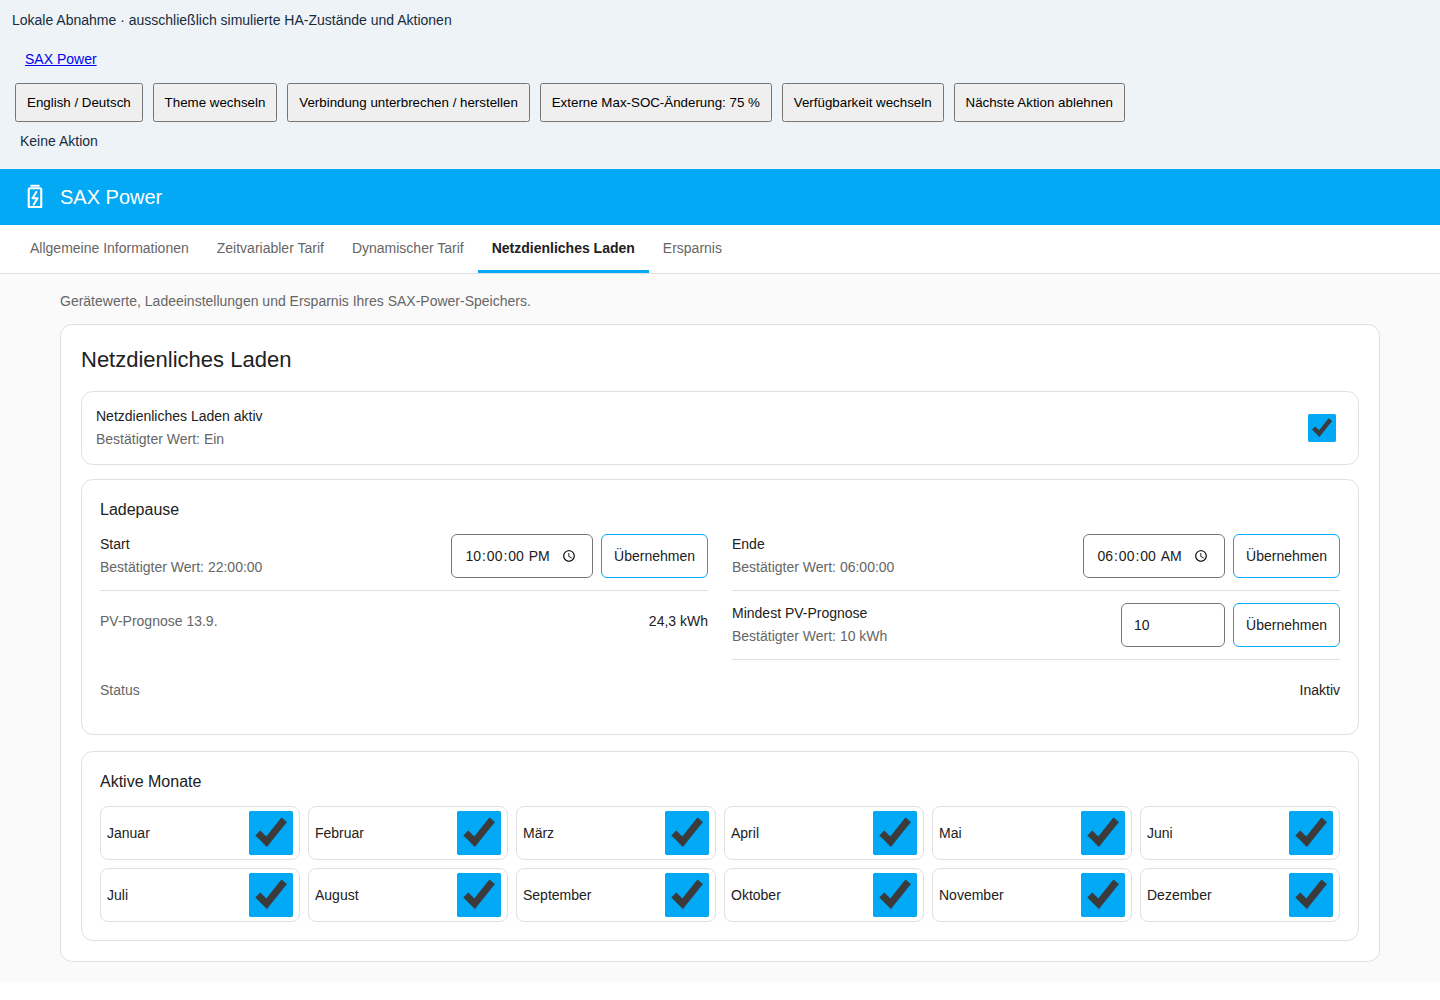
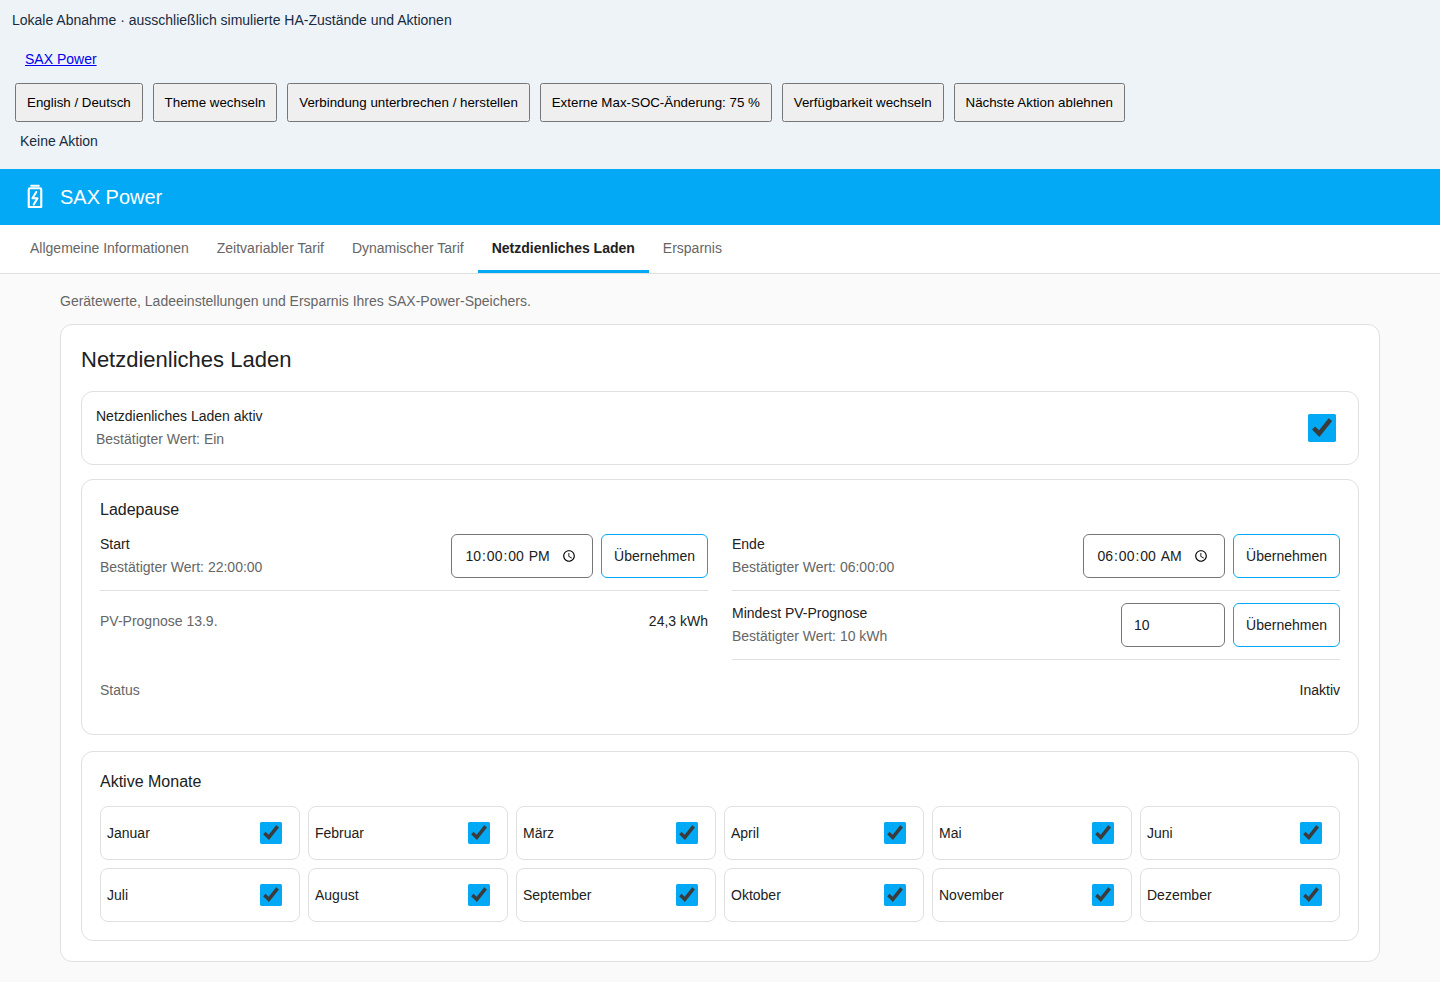
Aktualisiere die Browsernachweise für dezente Monatshaken

diff --git a/docs/vue-dashboard-parity.md b/docs/vue-dashboard-parity.md
@@ -242,14 +242,16 @@ im Produktionsmodul- und Browserlauf geprüft.
 ### Aktuelle Abnahme vom 12.09.2026
 
 Der vollständige
-[CI-Lauf 34687697772](https://github.com/dr-dimitri/sax-ha/actions/runs/34687697772)
+[CI-Lauf 34688788120](https://github.com/dr-dimitri/sax-ha/actions/runs/34688788120)
 prüfte den Code aus
-[Commit 909c2b8920cc](https://github.com/dr-dimitri/sax-ha/commit/909c2b8920ccd1b3edaceca96a2ee8dca27afcb6)
+[Commit f50e9e69ae0d](https://github.com/dr-dimitri/sax-ha/commit/f50e9e69ae0d9310385d48a314c52e911fc90811)
 im zugehörigen PR-Testmerge erfolgreich. Der Browserbericht zeigt:
 **28 von 28 Browserfällen bestanden,
 keine Fehler, keine erst nach Wiederholung bestandenen Fälle und keine Skips**.
 Die Prüfung umfasst das einzige Dashboard **SAX Power**, alle fünf Ansichten,
-die kompakten Monatsraster und das Entfernen des zweiten Dashboard-Einstiegs.
+die kompakten Monatsraster mit kleineren sichtbaren Kästchen und das Entfernen
+des zweiten Dashboard-Einstiegs. Die Browserfälle prüfen zusätzlich, dass
+Randklick und Leertaste jeweils genau einen HA-Serviceaufruf auslösen.
 Das Produktionsmodul verwendet in diesen Browserprüfungen simulierte HA-Daten.
 
 Für diesen Stand bestanden **202 Komponententests**, Typprüfung, Prettier und
@@ -262,12 +264,13 @@ Die lokale Browserprüfung über CUA maß für beide Monatsraster:
 | --- | --- | --- |
 | 1110 px Panelbreite | 6 | 116 px |
 | 390 px Browserbreite | 2 | 364 px |
-| 320 px Browserbreite | 1 | Kein horizontaler Überlauf |
 
 Die Messwerte gelten für die geprüften Beispieldaten. Fehler und ausstehende
 Aktionen dürfen die Kacheln vergrößern. Alle zwölf Monatsnamen bleiben lesbar
-und die Bedienflächen mindestens 44 × 44 px groß. Gespeicherte
-HA-Dashboards werden durch die Legacy-Migration nicht gelöscht. Es fand kein
+und die Bedienflächen mindestens 44 × 44 px groß, während die sichtbaren
+Checkboxen nur 22 × 22 px messen. Die lokale Maus- und Tastaturprüfung zeigte
+jeweils genau eine simulierte Aktion. Gespeicherte HA-Dashboards werden durch
+die Legacy-Migration nicht gelöscht. Es fand kein
 Test an einer physischen Batterie statt. Die finale isolierte Paketprüfung
 wird mit dem tatsächlichen Commit und den Prüfsummen in
 [PR #204](https://github.com/dr-dimitri/sax-ha/pull/204) festgehalten.
@@ -300,11 +303,11 @@ zugeordnet.
 ### Aktuelle Screenshots
 
 Die 14 Bilder stammen aus dem Browserbericht von
-[CI-Lauf 34687697772](https://github.com/dr-dimitri/sax-ha/actions/runs/34687697772)
+[CI-Lauf 34688788120](https://github.com/dr-dimitri/sax-ha/actions/runs/34688788120)
 vom 12.09.2026. Sie zeigen das einzige Dashboard **SAX Power** ohne
 Vue-/Vorschaukennzeichnung oder Einstieg zum alten Dashboard, die verdichteten
-Monatsraster und die Schalterbestätigung. Die Umgebung mit simulierten
-HA-Daten ist ausdrücklich als Testansicht gekennzeichnet.
+Monatsraster mit 22-px-Kästchen und die Schalterbestätigung. Die Umgebung mit
+simulierten HA-Daten ist ausdrücklich als Testansicht gekennzeichnet.
 
 | Ansicht | Desktop, Deutsch, hell | Smartphone, Englisch, dunkel |
 | --- | --- | --- |
